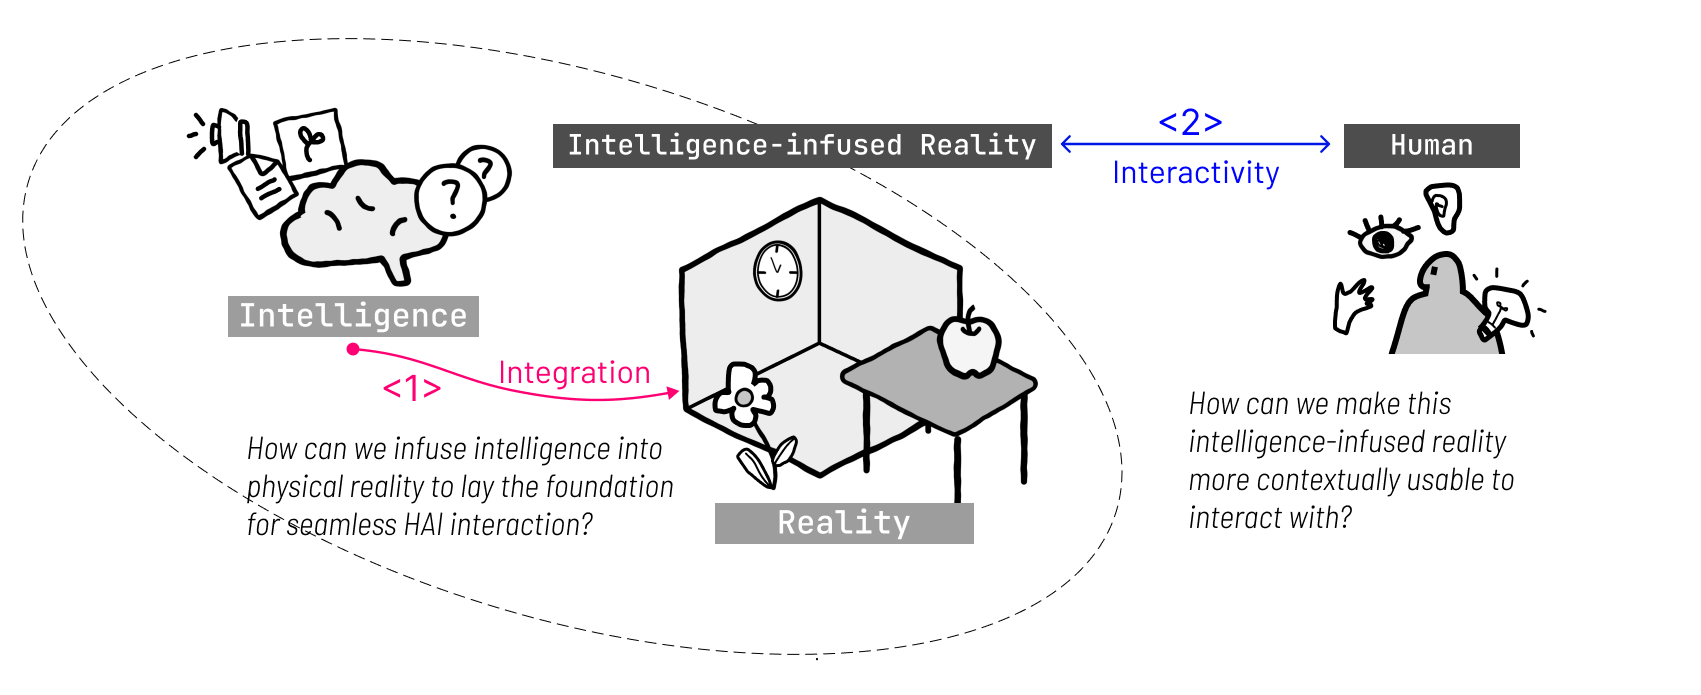
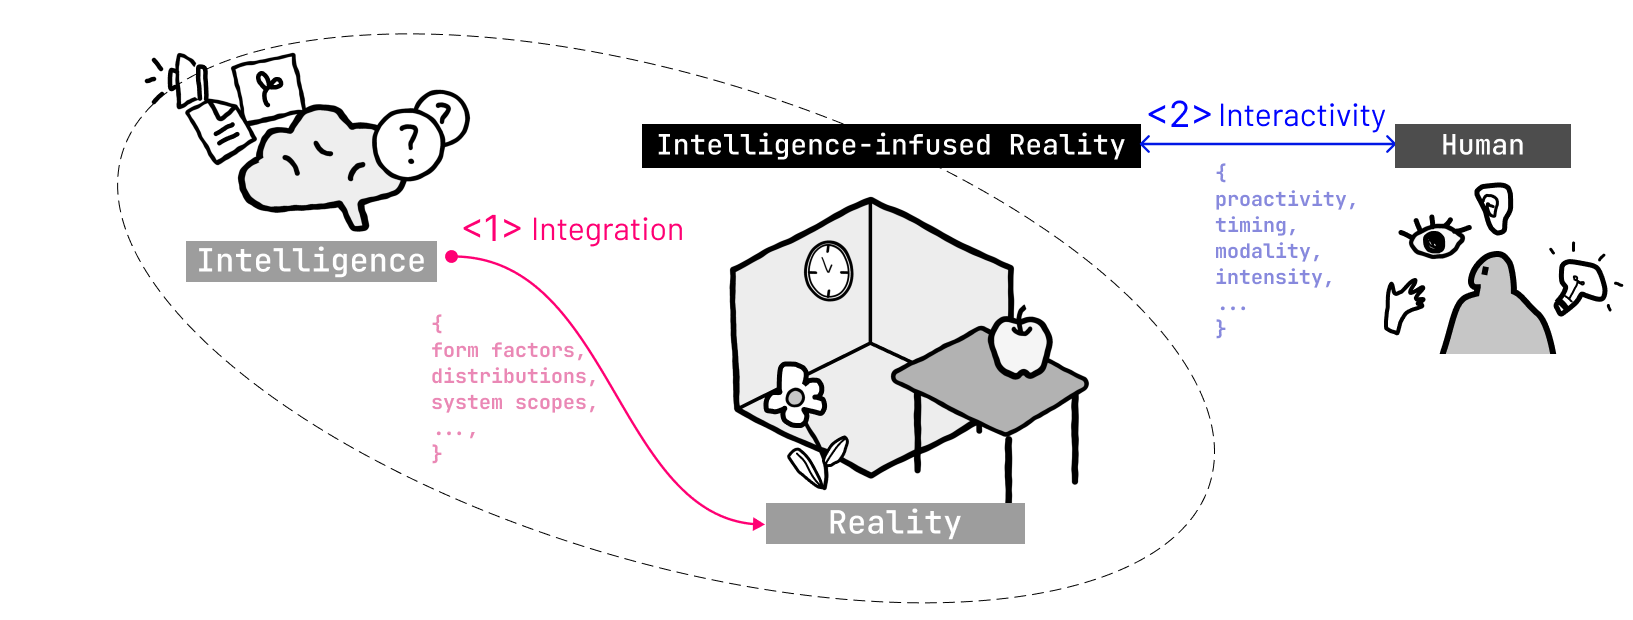
update framing

diff --git a/index.html b/index.html
@@ -47,7 +47,7 @@
                 </div>
                 <div class="intro">
                     <p>
-                        Here is my interested research space:
+                        Here are my interested research space and research questions:
                         </p>
                 </div>
 
@@ -58,10 +58,10 @@
                     <p class="intro-break"></p>
                     <div class="intro-list">
                         <p class="intro-item">
-                            <strong class="intro-highlight intro-highlight-integration">&lt;1&gt; INTEGRATION</strong>: <strong>Infusing intelligence into the environment</strong> with sensitivity to human presence and behaviors, surfacing physically grounded, task-callable affordances.
+                            <strong class="intro-highlight intro-highlight-integration">&lt;1&gt; INTEGRATION</strong>: How can we configure intelligence into physical reality, determining its form factors, distribution patterns, and system scopes <strong>to create the foundational infrastructure</strong>?
                         </p>
                         <p class="intro-item">
-                            <strong class="intro-highlight intro-highlight-interactivity">&lt;2&gt; INTERACTIVITY</strong>: <strong>Turning those affordances into contextually usable, unobtrusive infrastructure </strong>by orchestrating proactivity, timing, and modalities of interaction.
+                            <strong class="intro-highlight intro-highlight-interactivity">&lt;2&gt; INTERACTIVITY</strong>: How can we build systems that orchestrate behavioral dynamics such as proactivity, timing, modality, and intensity, serving as the backbone for <strong>contextually appropriate and unobtrusive interaction</strong>?
                         </p>
                     </div>
                 </div>
